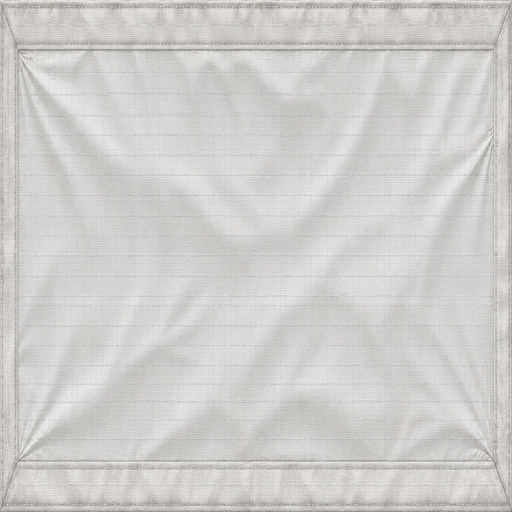
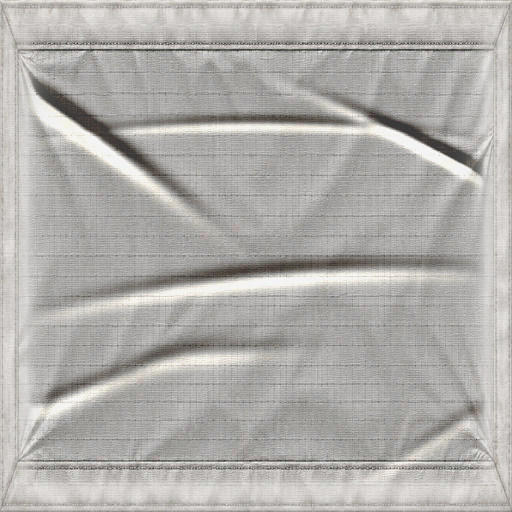
Deploy Orbital material distinction for insulation blankets

diff --git a/orbital/index.html b/orbital/index.html
@@ -1,5 +1,5 @@
 <!doctype html>
-<html lang="en"><head><meta charset="utf-8"><meta name="viewport" content="width=device-width,initial-scale=1,viewport-fit=cover"><meta name="theme-color" content="#0f1a20"><title>Orbital / Kestrel Station</title><link rel="stylesheet" href="style.css?v=12"><script type="module" src="host.mjs?v=47"></script></head>
+<html lang="en"><head><meta charset="utf-8"><meta name="viewport" content="width=device-width,initial-scale=1,viewport-fit=cover"><meta name="theme-color" content="#0f1a20"><title>Orbital / Kestrel Station</title><link rel="stylesheet" href="style.css?v=12"><script type="module" src="host.mjs?v=48"></script></head>
 <body><main aria-label="Orbital station simulator">
 <canvas id="view" aria-label="First-person view of Kestrel Station"></canvas>
 <header><div class="lockup"><div class="orb" aria-hidden="true">◉</div><div><strong>ORBITAL</strong><small>KESTREL STATION</small></div></div><div class="telemetry"><span aria-hidden="true"></span><b>SYSTEMS ONLINE</b><button id="menu" aria-label="Choose exercise" title="Choose exercise">☰</button><button id="camera" aria-label="Switch to third-person camera" title="Switch camera" disabled>▣</button><button id="reset" aria-label="Reset exercise" title="Reset exercise">↺</button></div></header>
